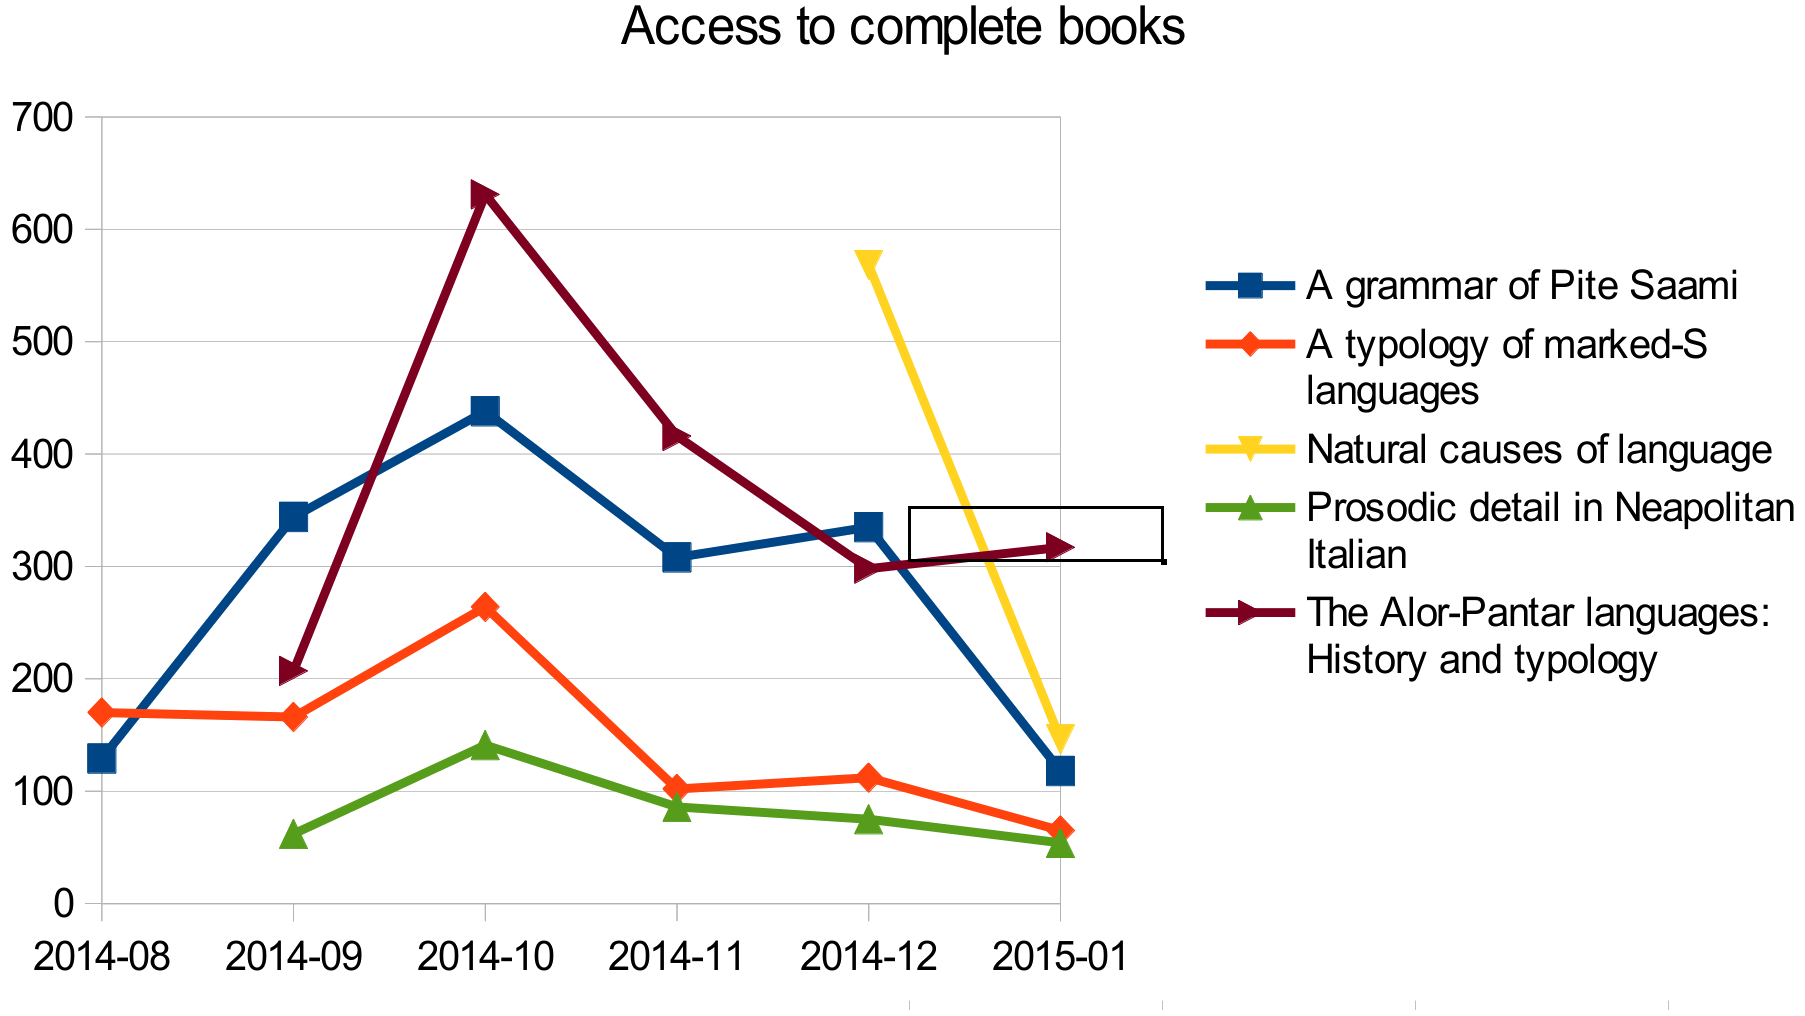
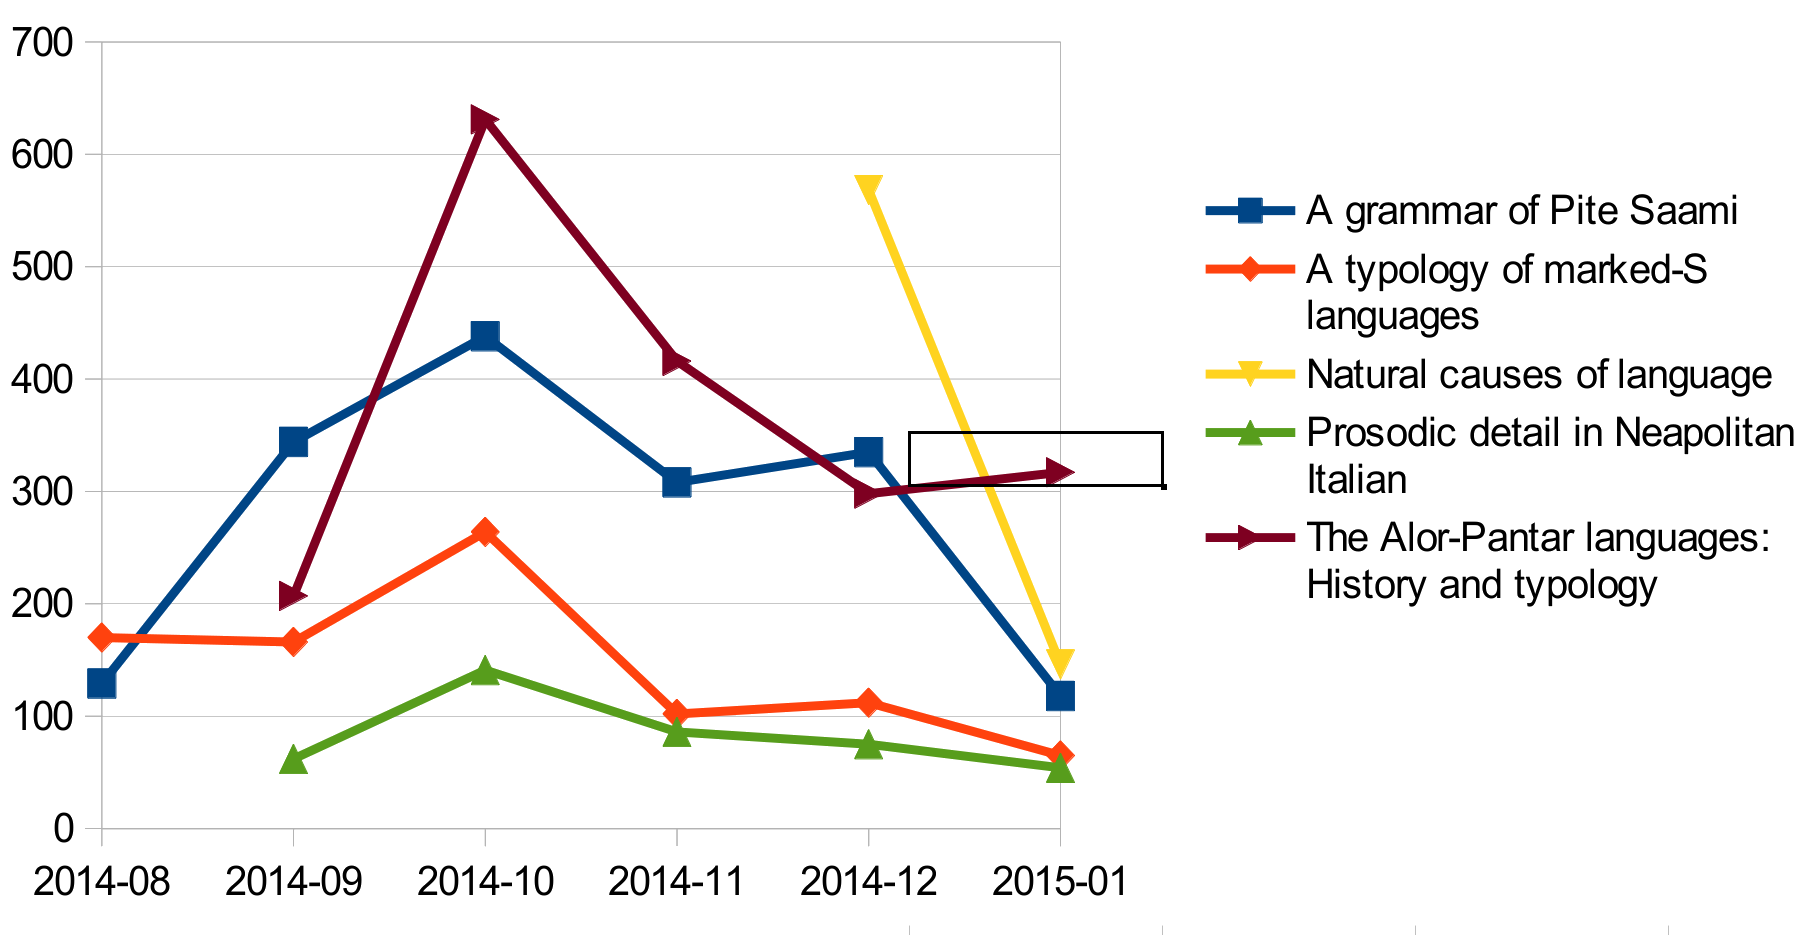
print

diff --git a/flyers/series/sidl.tex b/flyers/series/sidl.tex
@@ -105,7 +105,7 @@ nofoldmark,
     
     \noindent 
     ~
-    \parbox{.088\paperwidth}{
+    \parbox{.092\paperwidth}{
       \color{LIGHTGRAY}
       \vspace*{-.5cm}
       \includegraphics[width=.3\paperwidth]{langsci_logo_nocolor.pdf} 
@@ -124,7 +124,7 @@ nofoldmark,
 
     \medskip 
     
-    This book series will publish book-length studies on individual less-widely studied languages (especially, but not only reference grammars), as well as works in broadly comparative typological linguistics that takes into account the world-wide diversity of human languages. Work on individual languages and broadly comparative work is of a different nature, but this book series sees the two as closely related: Comparative studies need in-depth work on individual languages from around the world to build on, and descriptive work is done best in a comparative perspective.
+    This book series publishes book-length studies on individual less-widely studied languages (especially, but not only reference grammars), as well as works in broadly comparative typological linguistics that takes into account the world-wide diversity of human languages. Work on individual languages and broadly comparative work is of a different nature, but this book series sees the two as closely related: Comparative studies need in-depth work on individual languages from around the world to build on, and descriptive work is done best in a comparative perspective.
 
     
   }

diff --git a/flyers/flyer.tex b/flyers/flyer.tex
@@ -364,7 +364,7 @@ As of February 2015, more than 60 scholars have proposed manuscripts to Language
    
    
 \newpage 
-\section{ \sffamily \Large Stats}
+\section{ \sffamily \Large Submissions}
 
 \resizebox{\textwidth}{!}{
 {\scriptsize\sffamily
@@ -398,7 +398,8 @@ As of February 2015, more than 60 scholars have proposed manuscripts to Language
 }
 
 
-\includegraphics[width=\textwidth]{statistik_downloads-complete-books.jpg}
+\section{ \sffamily \Large Downloads}
+\includegraphics[width=\textwidth]{statistiks.png}
 
 \section{ \sffamily \Large Support us!}
   
@@ -412,17 +413,23 @@ As of February 2015, more than 60 scholars have proposed manuscripts to Language
     \end{itemize} 
 
 \section{ \sffamily \Large Contact}
- 
-
-
+\parbox{.7\textwidth}{
 {  \sffamily www.langsci-press.org}
 
 {  \sffamily  contact@langsci-press.org}
 
-Stefan M\"uller, Martin Haspelmath (Press Directors)\\
+Stefan M\"uller (Press Director)
+
+Martin Haspelmath (Press Director)
+
 Sebastian Nordhoff (Coordinator)
 
-\includegraphics[width=.4\textwidth]{qrcode.eps}
+}
+\parbox{.28\textwidth}{
+\includegraphics[width=.25\textwidth]{qrcode.eps}
+}
+
+
 
 
 % \framebox[3cm]{ \textbf{Mitmachen?}\\ Author\par Editor}
